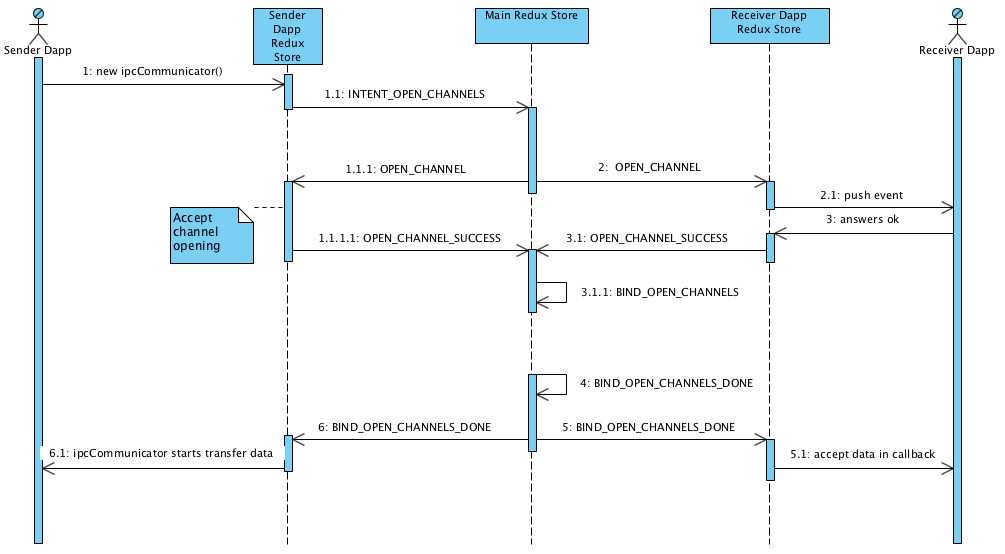
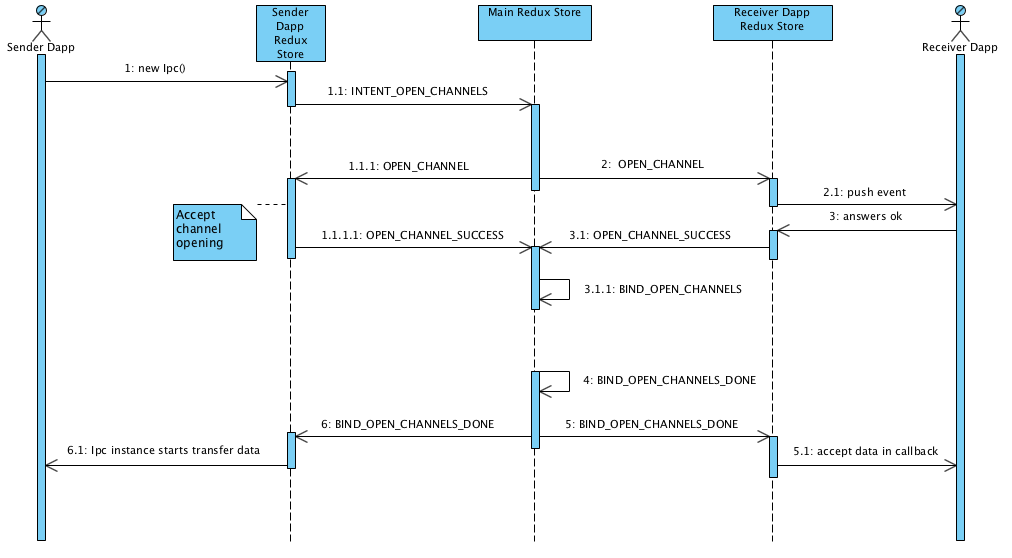
fix ipcCommunicator to Ipc

Changed region(s): [[0.0, 0.0, 0.9871, 0.9819], [0.7095, 0.0, 0.8328, 0.0921], [0.4627, 0.0, 0.5861, 0.0921]]

diff --git a/docs/README.md b/docs/README.md
@@ -37,11 +37,9 @@ Each dispatched action before it reaches target dapp go to main process and vali
 
 ![alt text](./diagrams/DappCommunication.png?raw=true "Dapp communication")
 
-
-
 ### Actions roadmap
 
-Sender dapp init communication with receiver dapp (`openChannelIntent` action). Main process propagate signal and dispatch two `openChannel` actions. [UUID target store resolver](#uuid-target-store-resolver) is used to pass action to the certain renderer process. Next we start procedure of bindChannels binding (`bindChannels` action dispatch). On success scenario we bind opened channels together and dispatch `bindChannelsSuccess`. So finally, we ready to provide communication abstraction for dapp developer  - `ipcCommunicator` instance.
+Sender dapp init communication with receiver dapp (`openChannelIntent` action). Main process propagate signal and dispatch two `openChannel` actions. [UUID target store resolver](#uuid-target-store-resolver) is used to pass action to the certain renderer process. Next we start procedure of bindChannels binding (`bindChannels` action dispatch). On success scenario we bind opened channels together and dispatch `bindChannelsSuccess`. So finally, we ready to provide communication abstraction for dapp developer  - `Ipc` instance.
 
 - openChannelIntent 
 ```javascript
